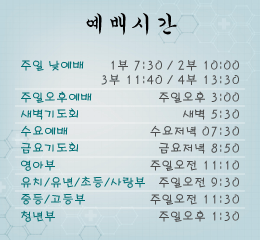
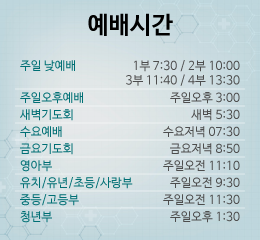
Font & Templates : Change all font, templates
Change all font to NanumBarunGothic.
Change some properties about padding as background-image being changed.

diff --git a/board/templates/list.html b/board/templates/list.html
@@ -17,33 +17,31 @@
         <tr class="notice">
             <td class="td_no">공지</td>
             <td class="td_title">
-                <a href="{{ post.get_absolute_url }}">
-                    <div class="td_title_title after">
-                        <div><em>{% if post.date %}{{post.date|date:"Y-m-d"}} | {% endif %}{% if post.tag %}<em style="color:#9b9b9b;">[{{post.tag}}]</em>{% endif %}{{post.title}}</em></div>
-                        <span class="icon_wrap after"><!--
-                        -->{% if post.upload_date|post_new %}<!--
-                        --><img class="icon" src="{% static 'img/newicon.png' %}" height="16px"><!--
-                        -->{% endif %}<!--
-                        -->{% if post.video %}<!--
-                        --><img class="icon" src="{% static 'img/videoicon.png' %}" height="16px"><!--
-                        -->{% endif %}<!--
-                        -->{% if post.image %}<!--
-                        --><img class="icon" src="{% static 'img/picicon.png' %}" height="16px"><!--
-                        -->{% endif %}<!--
-                        -->{% if post.file.first %}<!--
-                        --><img class="icon" src="{% static 'img/fileicon.png' %}" height="16px"><!--
-                        -->{% endif %}<!--
-                    --></span>
-                        {% if post.comment.all|length %}
-                        <span class="cmt_count">[{{post.comment.count}}]</span>
-                        {% endif %}
-                    </div>
-                    <div id="mob_list_info">
-                        <em>{% if post.writer.is_superuser %}관리자{% else %}{{post.writer}}{% endif %}</em>
-                        <span class="bar">|</span>
-                        <em>조회수 : {{post.views}}</em>
-                    </div>
-                </a>
+                <div class="td_title_title after">
+                    <a href="{{ post.get_absolute_url }}">{% if post.date %}{{post.date|date:"Y-m-d"}} | {% endif %}{% if post.tag %}[{{post.tag}}]{% endif %}{{post.title}}{% if post.preacher %} - {{post.preacher}}{% endif %}</a>
+                    <span class="icon_wrap after"><!--
+                    -->{% if post.upload_date|post_new %}<!--
+                    --><img class="icon" src="{% static 'img/newicon.png' %}" height="16px"><!--
+                    -->{% endif %}<!--
+                    -->{% if post.video %}<!--
+                    --><img class="icon" src="{% static 'img/videoicon.png' %}" height="16px"><!--
+                    -->{% endif %}<!--
+                    -->{% if post.image %}<!--
+                    --><img class="icon" src="{% static 'img/picicon.png' %}" height="16px"><!--
+                    -->{% endif %}<!--
+                    -->{% if post.file.first %}<!--
+                    --><img class="icon" src="{% static 'img/fileicon.png' %}" height="16px"><!--
+                    -->{% endif %}<!--
+                --></span>
+                    {% if post.comment.all|length %}
+                    <span class="cmt_count">[{{post.comment.count}}]</span>
+                    {% endif %}
+                </div>
+                <div id="mob_list_info">
+                    <em>{% if post.writer.is_superuser %}관리자{% else %}{{post.writer}}{% endif %}</em>
+                    <span class="bar">|</span>
+                    <em>조회수 : {{post.views}}</em>
+                </div>
             </td>
             <td class="td_writer">{% if post.writer.is_superuser %}관리자{% else %}{{post.writer}}{% endif %}</td>
             <td class="td_views">{{post.views}}</td>
@@ -55,33 +53,31 @@
         <tr>
             <td class="td_no">{% td_no forloop.counter0 page_obj.start_index %}</td>
             <td class="td_title">
-                <a href="{{ post.get_absolute_url }}">
-                    <div class="td_title_title after">
-                        <div><em>{% if post.date %}{{post.date|date:"Y-m-d"}} | {% endif %}{% if post.tag %}<em style="color:#aaaaaa;">[{{post.tag}}]</em>{% endif %}{{post.title}}</em></div>
-                        <span class="icon_wrap after"><!--
-                        -->{% if post.upload_date|post_new %}<!--
-                        --><img class="icon" src="{% static 'img/newicon.png' %}" height="16px"><!--
-                        -->{% endif %}<!--
-                        -->{% if post.video %}<!--
-                        --><img class="icon" src="{% static 'img/videoicon.png' %}" height="16px"><!--
-                        -->{% endif %}<!--
-                        -->{% if post.image %}<!--
-                        --><img class="icon" src="{% static 'img/picicon.png' %}" height="16px"><!--
-                        -->{% endif %}<!--
-                        -->{% if post.file.first %}<!--
-                        --><img class="icon" src="{% static 'img/fileicon.png' %}" height="16px"><!--
-                        -->{% endif %}<!--
-                    --></span>
-                        {% if post.comment.all|length %}
-                        <span class="cmt_count">[{{post.comment.count}}]</span>
-                        {% endif %}
-                    </div>
-                    <div id="mob_list_info">
-                        <em>{% if post.writer.is_superuser %}관리자{% else %}{{post.writer}}{% endif %}</em>
-                        <span class="bar">|</span>
-                        <em>조회수 : {{post.views}}</em>
-                    </div>
-                </a>
+                <div class="td_title_title after">
+                    <a href="{{ post.get_absolute_url }}">{% if post.date %}{{post.date|date:"Y-m-d"}} | {% endif %}{% if post.tag %}[{{post.tag}}]{% endif %}{{post.title}}{% if post.preacher %} - {{post.preacher}}{% endif %}</a>
+                    <span class="icon_wrap after"><!--
+                    -->{% if post.upload_date|post_new %}<!--
+                    --><img class="icon" src="{% static 'img/newicon.png' %}" height="16px"><!--
+                    -->{% endif %}<!--
+                    -->{% if post.video %}<!--
+                    --><img class="icon" src="{% static 'img/videoicon.png' %}" height="16px"><!--
+                    -->{% endif %}<!--
+                    -->{% if post.image %}<!--
+                    --><img class="icon" src="{% static 'img/picicon.png' %}" height="16px"><!--
+                    -->{% endif %}<!--
+                    -->{% if post.file.first %}<!--
+                    --><img class="icon" src="{% static 'img/fileicon.png' %}" height="16px"><!--
+                    -->{% endif %}<!--
+                --></span>
+                    {% if post.comment.all|length %}
+                    <span class="cmt_count">[{{post.comment.count}}]</span>
+                    {% endif %}
+                </div>
+                <div id="mob_list_info">
+                    <em>{% if post.writer.is_superuser %}관리자{% else %}{{post.writer}}{% endif %}</em>
+                    <span class="bar">|</span>
+                    <em>조회수 : {{post.views}}</em>
+                </div>
             </td>
             <td class="td_writer">{% if post.writer.is_superuser %}관리자{% else %}{{post.writer}}{% endif %}</td>
             <td class="td_views">{{post.views}}</td>

diff --git a/static-dev/css/style.css b/static-dev/css/style.css
@@ -1,6 +1,6 @@
 /* base style */
 #wrap{margin:0 auto;}
-#main_wrap{margin-top:40px; border-top:1px solid #e3e3e3; background-image:url(../img/bg.png);}
+#main_wrap{margin-top:40px; border-top:1px solid #e3e3e3; padding-bottom:10px; background-image:url(../img/bg.png);}
 
 /* top */
 #top_wrap{position:relative; top:0; margin-bottom:5px;}
@@ -36,9 +36,9 @@
 
 /* home style */
 #home_wrap{width:1200px; margin:0 auto; padding:30px 0;}
-#main_left{float:left; width:400px; height:800px; background-color:white;}
+#main_left{box-shadow:0px 0px 5px 3px #e3e3e3; float:left; width:400px; height:800px; background-color:white;}
 #main_right{float:left; margin-left:10px; width:790px;}
-#maintabevent{position:relative; height:300px; border:1px solid #e3e3e3; background-color:white;}
+#maintabevent{position:relative; height:300px; box-shadow:0px 0px 5px 3px #e3e3e3; background-color:white;}
 #tabbtnlist{z-index:8; position:absolute; bottom:15px; left:50%; transform:translateX(-50%);}
 #tabbtnlist > div{user-select:none; background-color:white; float:left; line-height:13px; font-size:13px; color:#6b6b6b; font-weight:bold; border:1px solid #e3e3e3; margin:0 10px; padding:10px 15px; cursor:pointer;}
 #tabbtnlist > div:hover{color:#0093e9;}
@@ -61,7 +61,7 @@
 #maingrid > #main1{-ms-grid-row:1; -ms-grid-column:1; -ms-grid-column-span:3; grid-row:1; grid-column:1 / span 2;}
 #maingrid > #main2{-ms-grid-row:3; -ms-grid-column:1; grid-row:2; grid-column:1;}
 #maingrid > #main3{-ms-grid-row:3; -ms-grid-column:3; grid-row:2; grid-column:2;}
-#maingrid > #main4{-ms-grid-row:1; -ms-grid-column:5; grid-row:1; grid-column:3;}
+#maingrid > #main4{-ms-grid-row:1; -ms-grid-column:5; grid-row:1; grid-column:3; position:relative;}
 #maingrid > #main5{-ms-grid-row:3; -ms-grid-column:5; grid-row:2; grid-column:3; position:relative;}
 #maingrid > div{box-shadow:0px 0px 5px 3px #e3e3e3; border-radius:5px; background-color:white; overflow:hidden;}
 #main5 > #map{height:calc(100% - 50px)}
@@ -99,7 +99,7 @@
 
 
 /* board style - list */
-#content{min-height:500px; box-shadow:0px 0px 5px 3px #e3e3e3; background-color:white;}
+#content{min-height:500px; box-shadow:0px 0px 5px 3px #e3e3e3; background-color:white; overflow:hidden;}
 #content.list{padding:10px 30px; float:left; margin-left:80px; width:calc(100% - 300px);}
 #title_wrap{width:100%; height:100px; background-image:url(../img/title_bg.png); border-top:1px double #e3e3e3; position:relative;}
 #title{margin:35px 0; line-height:30px; color:white; text-align:center;}
@@ -129,9 +129,8 @@
 #list_table .th_date{width:90px;}
 #list_table .th_views{width:55px;}
 #list_table .td_title #mob_list_info{display:none;}
-#list_table .td_title a{width:100%; display:block;}
-#list_table .td_title > a:hover .td_title_title > div{text-decoration:underline; color:#6b6b6b;}
-#list_table .td_title .td_title_title div:first-child{float:left; max-width:calc(100% - 100px); text-overflow:ellipsis; white-space:nowrap; overflow:hidden;}
+#list_table .td_title a{display:block; float:left; max-width:calc(100% - 100px); text-overflow:ellipsis; white-space:nowrap; overflow:hidden;}
+#list_table .td_title a:hover{text-decoration:underline; color:#6b6b6b;}
 #list_table .icon_wrap{margin-left:5px; float:left;}
 #list_table .icon{vertical-align:sub; float:left;}
 #list_table .cmt_count{float:left; vertical-align:sub; margin-left:5px; color:#aaaaaa;}
@@ -312,6 +311,7 @@
 
 /* board style - write */
 #content.write{width:700px; margin:0 auto;}
+#write_wrap{padding:50px 0;}
 #write_wrap h2{text-align:center;}
 #write_wrap select{border:1px solid #c5c5c5; height:40px; font-size:14px; line-height:14px; background-color:white; width:80px; margin-right:20px;}
 #write_wrap .field_wrap input{padding:8px; border:1px solid #c5c5c5; width:420px; height:40px; font-size:14px; line-height:14px;}
@@ -429,6 +429,7 @@ body.mob_menu_on{overflow:hidden;}
     #mob_menu_top_wrap{height:80px; background-color:#0093e9}
     #mob_menu_top_wrap .container_01{user-select:none; color:white; font-size:12px; padding:2px; background-color:#00598d; text-align:center;}
     #mob_menu_top_wrap .container_02{height:calc(100% - 22px)}
+    #mob_menu_top_wrap img{vertical-align:middle;}
     #mob_menu_close{float:right; height:100%; width:58px; line-height:54px; background-color:#818181; text-align:center;}
     #mob_login_wrap{float:left; width:calc(100% - 58px);}
     #mob_login_wrap > ul > li{float:left; font-size:10px;}
@@ -496,6 +497,7 @@ body.mob_menu_on{overflow:hidden;}
     #content.detail{width:100%;}
     #content.write{width:100%;}
     #wrapper{padding-top:0;}
+    #list_table{table-layout:fixed;}
     #list_table > thead,
     #list_table .td_no,
     #list_table .td_writer,

diff --git a/templates/home.html b/templates/home.html
@@ -45,7 +45,7 @@
             <div id="tabevent_inner">
                 <div id="tabevent_01" class="tab_item active" title="{{tab1.title}}">
                     <a href="{{tab1.get_absolute_url}}">
-                        <img src="" height="100%" width="100%" alt="Tab Event_01">
+                        <img src="" height="100%" alt="Tab Event_01">
                         <div class="container">
                             <p class="tab_title">{{tab1.title}}</p>
                             <p class="tab_date">{{tab1.date|date:"Y-m-d"}}</p>
@@ -55,7 +55,7 @@
                 </div>
                 <div id="tabevent_02" class="tab_item" title="{{tab2.title}}">
                     <a href="{{tab2.get_absolute_url}}">
-                        <img src="{% static 'img/home_worship.png' %}" height="100%" width="100%" alt="Tab Event_02">
+                        <img src="{% static 'img/home_worship.png' %}" height="100%" alt="Tab Event_02">
                         <div class="container">
                             <p class="tab_title">{{tab2.title}}</p>
                             <p class="tab_date">{{tab2.date|date:"Y-m-d"}}</p>
@@ -73,7 +73,7 @@
                     {% now "y" as this_year %}
                     {% for post in main1 %}
                     <li>
-                        <a href="{{post.get_absolute_url}}">[{{post.div.name}}{% if post.tag %}<em>-{{post.tag}}</em>{% endif %}] {% if post.date %}{{post.date|date:"Y-m-d"}} {% endif %}{{post.title}}</a>
+                        <a href="{{post.get_absolute_url}}">[{{post.div.name}}{% if post.tag %}<em>-{{post.tag}}</em>{% endif %}] {% if post.date %}{{post.date|date:"Y-m-d"}} {% endif %}{{post.title}}{% if post.preacher %} - {{post.preacher}}{% endif %}</a>
                         {% if post.upload_date|post_new %}
                         <span>
                             <img class="icon" src="{% static 'img/newicon.png' %}" height="16px">

diff --git a/static-dev/css/reset.css b/static-dev/css/reset.css
@@ -10,7 +10,7 @@ caption,article,aside,embed, figure,figcaption,footer,header,nav,section,summary
     background:transparent;
     font-style:normal
   }
-body,html{margin:0; display:block; padding:0; font-size:16px; line-height:1.5; font-family:"Segoe UI",Roboto,"Helvetica Neue",Arial,sans-serif,"Apple Color Emoji","Segoe UI Emoji","Segoe UI Symbol"}
+body,html{margin:0; display:block; padding:0; font-size:16px; line-height:1.5; font-family: 'NanumBarunGothic';}
 ul,ol,li,a{text-decoration:none; list-style:none; color:black; padding:0px; margin:0px;}
 table,thead,tr,td,th,tbody{border-collapse:collapse;}
 p{display: block; margin-block-start:0; margin-block-end:0;}
@@ -18,3 +18,11 @@ i, cite, em, var, address, dfn{font-style:normal;}
 input, select, textarea, button{border-radius:0; vertical-align:middle; outline:none;}
 select:focus{outline:none;}
 video:focus{outline:none;}
+
+@font-face {
+  font-family: 'NanumBarunGothic';
+  font-style: normal;
+  font-weight: 400;
+  src: url('//cdn.jsdelivr.net/font-nanumlight/1.0/NanumBarunGothicWeb.eot');
+  src: url('//cdn.jsdelivr.net/font-nanumlight/1.0/NanumBarunGothicWeb.eot?#iefix') format('embedded-opentype'), url('//cdn.jsdelivr.net/font-nanumlight/1.0/NanumBarunGothicWeb.woff') format('woff'), url('//cdn.jsdelivr.net/font-nanumlight/1.0/NanumBarunGothicWeb.ttf') format('truetype');
+ }

diff --git a/static-dev/css/login.css b/static-dev/css/login.css
@@ -37,7 +37,7 @@ body#login{width:480px; margin:0 auto;}
 #find_container .help{font-size:12px; color:#939393; margin-top:10px;}
 
 /*회원가입*/
-#reg_wrapper{width:800px; margin:0 auto; padding:30px 50px; min-height:500px; box-shadow:0px 0px 5px 3px #e3e3e3; background-color:white;}
+#reg_wrapper{width:800px; margin:0 auto; padding:30px 50px; margin:30px auto; min-height:500px; box-shadow:0px 0px 5px 3px #e3e3e3; background-color:white;}
 #reg_wrapper.result{text-align:center;}
 #reg_wrapper h4{color:#0093e9; margin-top:40px;}
 #reg_wrapper h5{margin-top:20px;}
@@ -83,7 +83,7 @@ body#login{width:480px; margin:0 auto;}
 
 @media screen and (max-width:480px){
     body#login{width:90%;}
-    #reg_wrapper{width:95%!important; padding-top:10px;}
+    #reg_wrapper{width:95%!important; padding:30px 20px;}
     #reg_wrapper h4{font-size:13px;}
     #private_table{font-size:11px;}
     #login_wrap{margin-top:20px;}

diff --git a/templates/base.html b/templates/base.html
@@ -112,7 +112,7 @@
                     <div id="mob_menu_top_wrap">
                         <div class="container_01">
                             {% if user.is_active %}
-                            <em style="text-decoration: underline;">{{user.name}}</em><em> 님, 반갑습니다.</em>
+                            <em>{{user.name}}님, 반갑습니다.</em>
                             {% else %}
                             <em>덕천제일교회</em>
                             {% endif %}

diff --git a/board/views.py b/board/views.py
@@ -41,6 +41,7 @@ class Board(ListView, BoardMixin):
         paginator = context['paginator']
         page = self.request.GET.get('page', '1')
         now_menu = Submenu.objects.filter(mainmenu=pk[0]).get(order=int(pk[1:]))
+        notice_list = Post.objects.filter(div=now_menu).filter(notice=True).order_by('-upload_date')
         if now_menu.m_type == 'fixed_uneditable':
             content_type = 'fixedboard/fixedboard_' + pk + '.html'
             if now_menu.name == '교회연혁':
@@ -50,6 +51,7 @@ class Board(ListView, BoardMixin):
         else:
             content_type = now_menu.m_type + '.html'
             fixed_data = FixedMenu.objects.filter(menu=now_menu).last()
+        context['notice_list'] = notice_list
         context['page_range'] = self.page_range(paginator, page)
         context['pk'] = pk
         context['menu'] = Mainmenu.objects.all().order_by('order')
